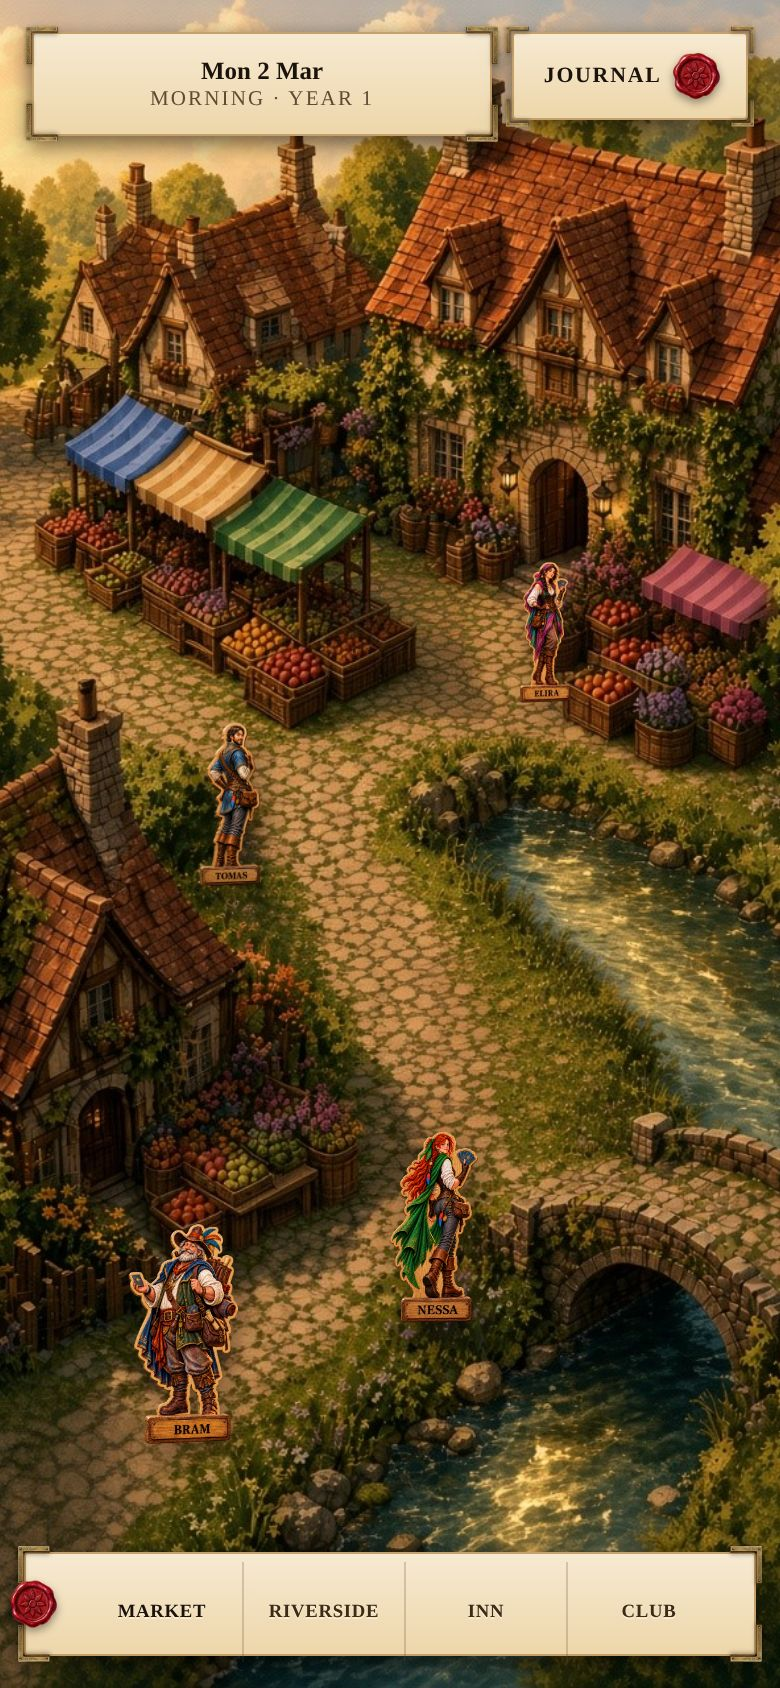
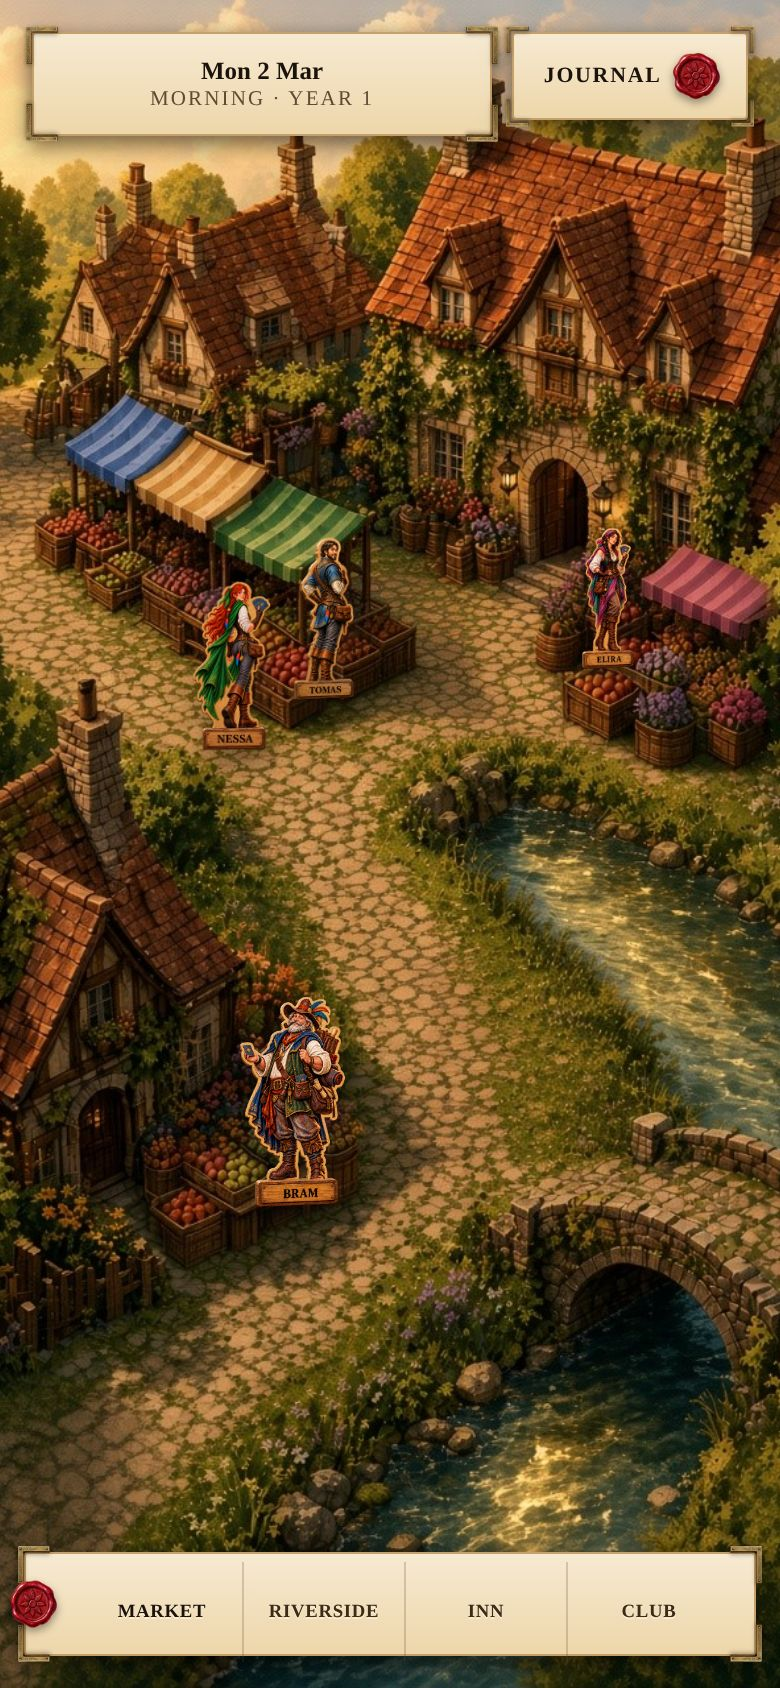
Stand oak cutouts at the Market stalls, not in the street.
Bram at the cottage fruit, Nessa and Tomas at the awning stalls,
Elira at the pink stall. Path down the middle stays open.

diff --git a/mockups/isometric-town/standee-fit/place.html b/mockups/isometric-town/standee-fit/place.html
@@ -36,14 +36,14 @@
     pointer-events:none;
     object-fit:contain;
   }
-  /* Slot 0 front — Bram, on the cobbles in front of the cottage fruit */
-  .standee[data-slot="0"]{--x:24%;--b:14%;--h:14%;--z:24}
-  /* Slot 1 — Nessa, right-hand cobbles, path still open down the middle */
-  .standee[data-slot="1"]{--x:56%;--b:21%;--h:12.5%;--z:23}
-  /* Slot 2 — Tomas, at the three awnings, left of the street */
-  .standee[data-slot="2"]{--x:30%;--b:47%;--h:10.5%;--z:18}
-  /* Slot 3 back — Elira, cobbles by the pink awning */
-  .standee[data-slot="3"]{--x:70%;--b:58%;--h:9%;--z:17}
+  /* Slot 0 — Bram at the cottage fruit stall (beside the crates, not covering them) */
+  .standee[data-slot="0"]{--x:38%;--b:28%;--h:13.5%;--z:24}
+  /* Slot 1 — Nessa at the stripe / green stall tables */
+  .standee[data-slot="1"]{--x:30%;--b:55%;--h:11%;--z:19}
+  /* Slot 2 — Tomas at the green awning, out of the street */
+  .standee[data-slot="2"]{--x:42%;--b:58%;--h:10.5%;--z:18}
+  /* Slot 3 — Elira in front of the pink awning stall */
+  .standee[data-slot="3"]{--x:78%;--b:60%;--h:9%;--z:17}
 
   #hudLayer{position:absolute;inset:0;z-index:40;pointer-events:none}
   .worldTopbar{

diff --git a/mockups/isometric-town/standee-fit/README.md b/mockups/isometric-town/standee-fit/README.md
@@ -32,7 +32,7 @@ Jewel gold is the locked colour. Cutouts are HTML overlays on that painting — 
 - With HUD: `jewel-placed.jpg`
 - Street only: `jewel-placed-nohud.jpg`
 
-Slots: 0 Bram (front left, cottage), 1 Nessa (right cobbles), 2 Tomas (three awnings), 3 Elira (pink awning).
+Slots: Bram at the cottage fruit stall, Nessa at the stripe stall, Tomas at the green awning, Elira at the pink stall. Street down the middle stays open.
 
 
 ## Compare
